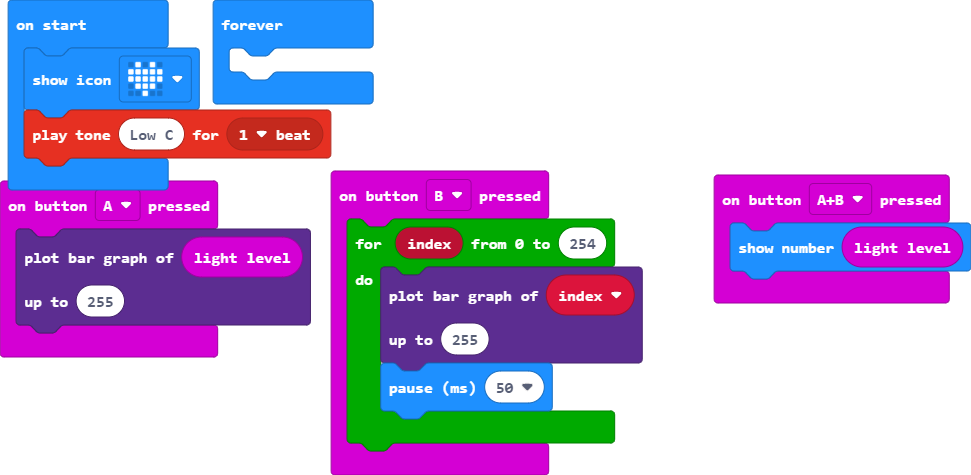
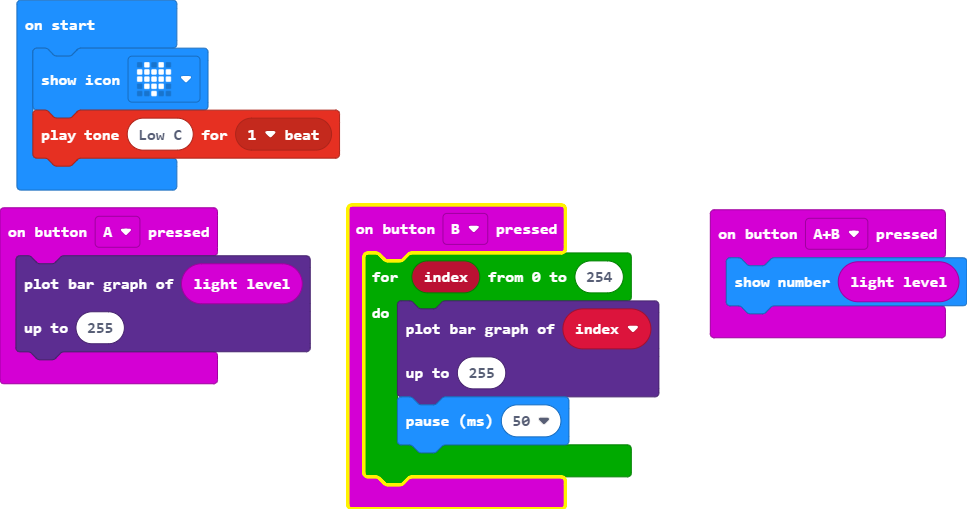
Update main.blocks, main.ts

Changed region(s): [[0.0, 0.0, 0.6825, 1.0], [0.7135, 0.3537, 1.0, 0.6779], [0.0, 0.7368, 0.2172, 0.7663]]

diff --git a/main.ts b/main.ts
@@ -18,6 +18,3 @@ input.onButtonPressed(Button.B, function () {
 })
 basic.showIcon(IconNames.Heart)
 music.playTone(131, music.beat(BeatFraction.Whole))
-basic.forever(function () {
-	
-})
